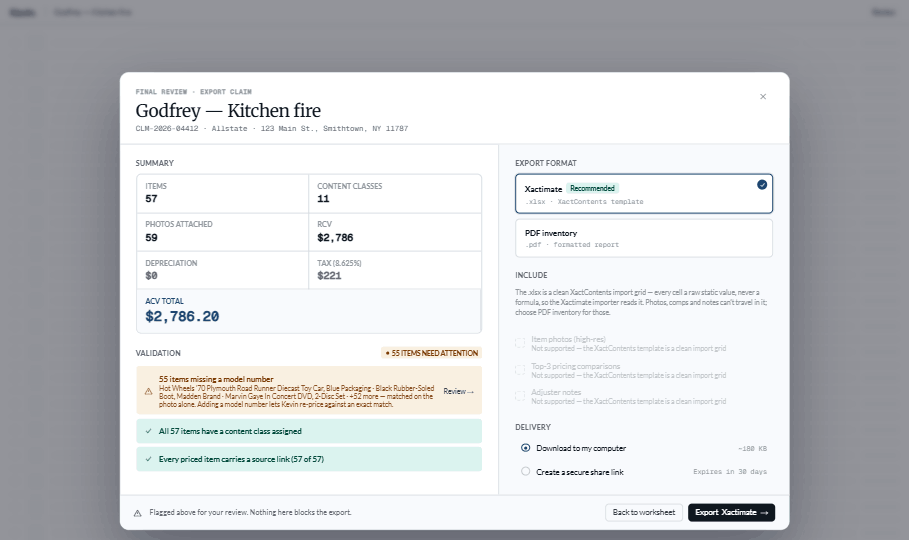
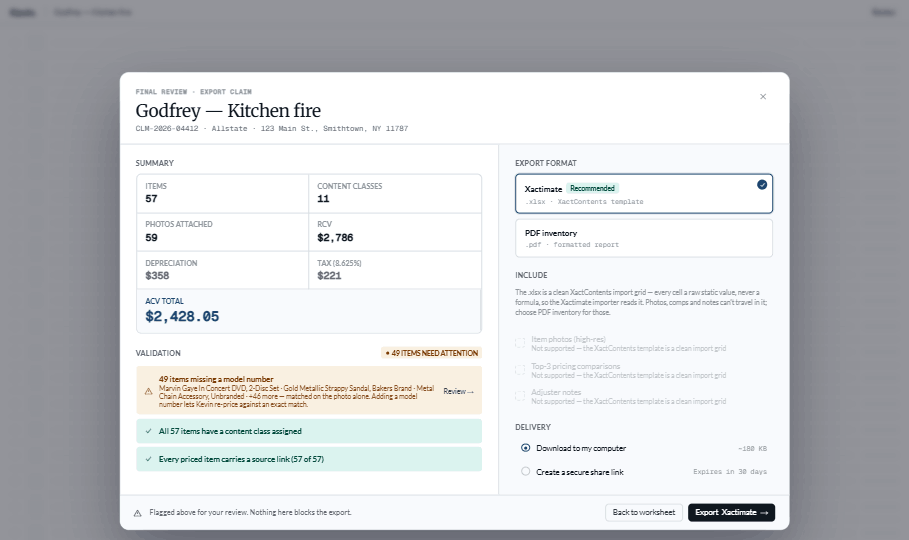
feat(marketing): swap in the high-resolution captures
Six new assets, three of them wired. The -2x files are genuine recaptures at
~3156px, not upscales -- their crops differ from the 1x versions, so srcset
would make the image jump between devices. Each frame therefore takes its own
image's aspect ratio and renders the 2x file directly:

  staging-sets-2x     3156x1720   ratio 1.835
  worksheet-review-2x 3186x1766   ratio 1.804
  export-modal-2x     3156x1916   ratio 1.647

Every slot on landing and product now crops zero pixels on any side, and DPR
headroom goes from ~1.05x (visibly soft on any modern screen) to 3.6x on
landing and 4-8x on product.

Also landed but not yet placed: intake-form and processing-live, at 1x and 2x.
No slot references them.

Verified both pages at 1280 and 375: all six images load, no crop, no overflow.

Changed region(s): [[0.154, 0.7111, 0.4928, 0.7704], [0.1848, 0.563, 0.2464, 0.5926], [0.154, 0.5037, 0.1848, 0.5333]]

diff --git a/design/components/marketing-pages.jsx b/design/components/marketing-pages.jsx
@@ -88,12 +88,12 @@ const ProductOverview = () => {
             in never reflows the page. */}
         <section className="k-proof-solo">
           <window.MktShot
-            src="../assets/marketing/worksheet-review.png"
+            src="../assets/marketing/worksheet-review-2x.png"
             alt="Kevin review worksheet — priced line items with make, model, content class, depreciation and ACV columns"
             label="kevin.co/claims/CLM-2026-04412/worksheet"
             slot="Review worksheet — 57 priced lines"
             size="Capture from pages/05-Worksheet-flat.html · 2000 × 1125"
-            ratio="924 / 540"
+            ratio="3186 / 1766"
             caption="One grid, every cell editable — and every price traceable to the comp it came from."
           />
         </section>
@@ -130,21 +130,21 @@ const ProductOverview = () => {
         </div>
         <section className="k-proof-two">
           <window.MktShot
-            src="../assets/marketing/staging-proposed-sets.png"
+            src="../assets/marketing/staging-sets-2x.png"
             alt="Kevin photo staging — proposed photo sets awaiting review, one merged into a single item with an adjuster note"
             label="kevin.co/claims/CLM-2026-04412/staging"
             slot="Photo staging — proposed sets"
             size="Capture from pages/73-Photo-staging.html · 1400 × 875"
-            ratio="909 / 540"
+            ratio="3156 / 1720"
             caption="Shots seconds apart become one set — the wide frame and the model plate, priced once. Merge, split, or set aside before anything is identified."
           />
           <window.MktShot
-            src="../assets/marketing/export-modal.png"
+            src="../assets/marketing/export-modal-2x.png"
             alt="Kevin export modal — Xactimate Excel XactContents template, client PDF and full bundle, with download and share actions"
             label="Export claim · CLM-2026-04412"
             slot="Carrier export modal"
             size="Capture from pages/06-Export-modal.html · 1400 × 875"
-            ratio="909 / 540"
+            ratio="3156 / 1916"
             caption="Xactimate (Excel) · .xlsx · XactContents template — static values in every derived cell, because the importer breaks on formulas."
           />
         </section>

diff --git a/design/components/landing.jsx b/design/components/landing.jsx
@@ -348,7 +348,8 @@ const Landing = ({ onStartClaim, onSampleClaim, onStartTrial }) => {
             </ul>
           </div>
           <MktShot
-            src="../assets/marketing/staging-proposed-sets.png"
+            src="../assets/marketing/staging-sets-2x.png"
+            ratio="3156 / 1720"
             alt="Kevin photo staging — proposed photo sets awaiting review, one merged into a single item with an adjuster note"
             label="kevin.co/claims/CLM-2026-04412/staging"
             slot="Photo staging — proposed sets"
@@ -378,7 +379,8 @@ const Landing = ({ onStartClaim, onSampleClaim, onStartTrial }) => {
             </ul>
           </div>
           <MktShot
-            src="../assets/marketing/worksheet-review-grid.png"
+            src="../assets/marketing/worksheet-review-2x.png"
+            ratio="3186 / 1766"
             alt="Kevin review worksheet — priced line items with make, model, content class, depreciation and ACV columns"
             label="kevin.co/claims/CLM-2026-04412/worksheet"
             slot="Review worksheet — 57 priced lines"
@@ -409,7 +411,8 @@ const Landing = ({ onStartClaim, onSampleClaim, onStartTrial }) => {
             </ul>
           </div>
           <MktShot
-            src="../assets/marketing/export-modal.png"
+            src="../assets/marketing/export-modal-2x.png"
+            ratio="3156 / 1916"
             alt="Kevin export modal — Xactimate Excel XactContents template, client PDF and full bundle, with download and share actions"
             label="Export claim · CLM-2026-04412"
             slot="Carrier export modal"
